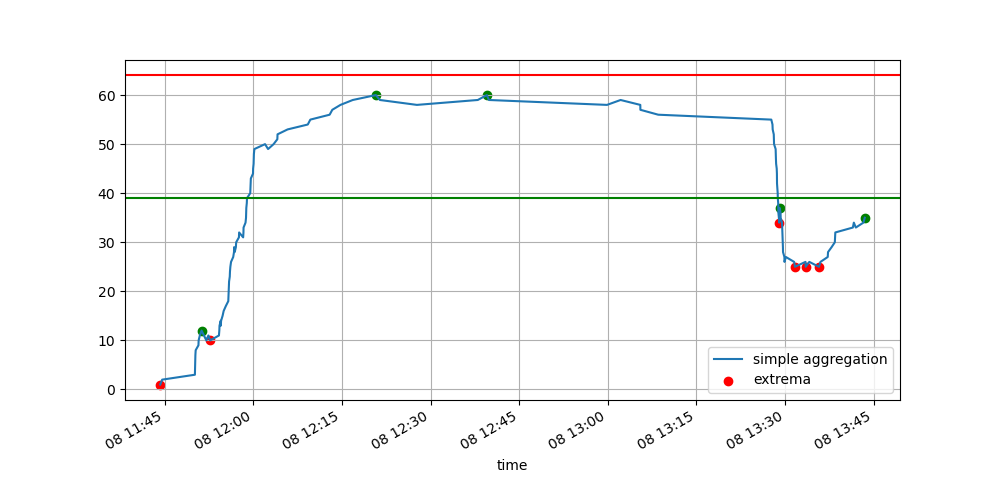
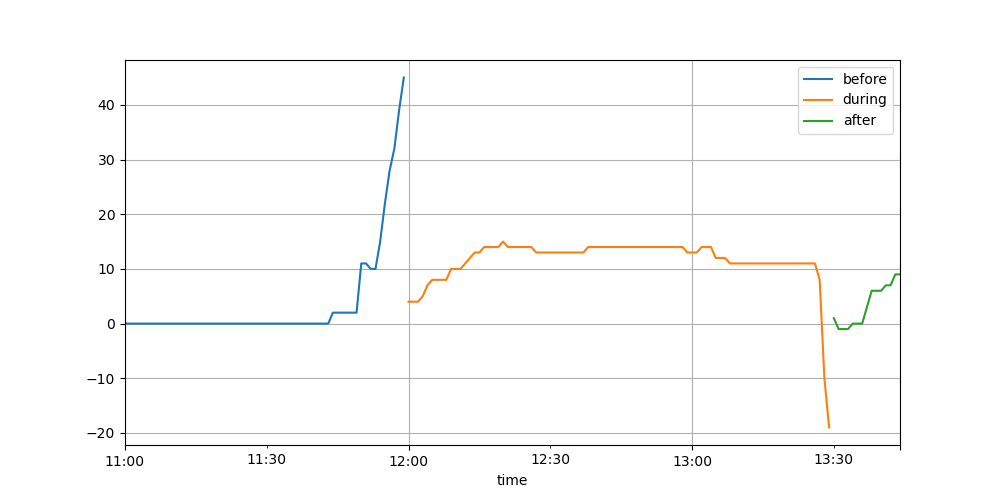
per minute

diff --git a/data_processor/analysis.py b/data_processor/analysis.py
@@ -38,6 +38,29 @@ class Analyzer():
         else:
             return df[mask]
     
+    
+    ######## Statistical Methods ########
+    def calc_mean_inside(self, dataframe):
+        df = dataframe.copy()
+        return df["people_inside"].mean()
+    
+    def calc_median_inside(self, dataframe):
+        df = dataframe.copy()
+        return df["people_inside"].median()
+    
+    def calc_mode_inside(self, dataframe):
+        df = dataframe.copy()
+        return int(df["people_inside"].mode())
+    
+    def calc_std_inside(self, dataframe):
+        df = dataframe.copy()
+        return df["people_inside"].std()
+    
+    def describe_inside(self, dataframe):
+        df = dataframe.copy()
+        return df["people_inside"].describe()
+    
+    
     ########  Data Analysis Methods ########
     # calc people entering and leaving
     def calc_entering_leaving(self, dataframe):
@@ -58,7 +81,31 @@ class Analyzer():
         # calc people in room a a given time
         df["people_inside"] = df["people_in"] - df["people_out"]
         return df
-
+    
+    def calc_inside_per_min(self, dataframe, n=1, start=None, end=None):
+        
+        df = dataframe.copy()
+        
+        # add a check if n is a divisor of the time span
+        
+        
+        df["people_in"] = df["event_type"].apply(lambda x: 1 if x == 1 else 0)
+        df["people_out"] = df["event_type"].apply(lambda x: 1 if x == 0 else 0)
+        
+        
+        idx = pd.date_range(start=start, end=end, freq=f'{n}min')
+        
+        df = df.set_index("time")\
+                .resample(f"{n}min")\
+                .sum().reindex(idx, fill_value=0).reset_index()
+        df.rename(columns={"index":"time"}, inplace=True)
+        
+        df["people_in"] = df["people_in"].cumsum()
+        df["people_out"] = df["people_out"].cumsum()
+        df["people_inside"] = df["people_in"] - df["people_out"]
+        
+        return df
+            
     def get_time(self, start_time, end_time, first, last):
                 
         if first:
@@ -84,6 +131,31 @@ class Analyzer():
                                             order=n)[0]]["people_inside"]
         return df
     
+    def calc_participants(self, dataframe, start_time, end_time, first, last):
+        
+        n = 1
+        # make a copy of the dataframe
+        df = dataframe.copy()
+        # get the new start and end time
+        df_during = self.filter_by_time(df, start_time, end_time)
+        df_course = self.calc_inside_per_min(df_during, n ,start_time, end_time-timedelta(minutes=1))
+        
+        start_time_new, end_time_new = self.get_time(start_time, end_time, first, last)
+        
+        df_before = self.filter_by_time(df, start_time_new, start_time)
+        df_before = self.calc_inside_per_min(df_before, n ,start_time_new, start_time-timedelta(minutes=1))
+        
+        df_after = self.filter_by_time(df, end_time, end_time_new)
+        df_after = self.calc_inside_per_min(df_after, n ,end_time, end_time_new-timedelta(minutes=1))
+        
+        #print(self.calc_inside_per_min(df_before))
+        print(df_before)
+        print(df_course)
+        print(df_after)
+        #print(self.calc_inside_per_min(df_after))
+        #start from the assumption that during the course only particpants are in the room
+        return df_before, df_course, df_after
+
     def calc_participants_simple(self, dataframe, start_time, end_time):
         df = dataframe.copy()
         
@@ -172,32 +244,6 @@ class Analyzer():
         
         return course_attendance, sanity_check
  
-
-    #def check_extrema(self, minima, maxima, mask_min, mask_max):
-    #    # process minima
-    #    if len(minima[mask_min]) > 1:
-    #        # check if in between minimum is a maximum
-    #        # if yes, split chunk into two
-    #        min_indices = minima[mask_min].index
-    #        max_indices = maxima[mask_max].index
-            
-    #        indices = []
-    #        for i, i_1 in zip(min_indices[:-1], min_indices[1:]):
-    #            max_between = max_indices[(max_indices > i) & (max_indices < i_1)]
-    #            if np.any(max_between):
-    #                indices.append(i)
-    #                indices.append(max_between.item())
-    #            else:
-    #                indices.append(i)
-                    
-    #        indices.append(i_1)
-    #        return indices 
-        
-    #    elif len(minima[mask_min]) == 1:
-    #        return [minima[mask_min].index.item()]
-    #    else:
-    #        return []
-
 # calculate people present at a course
     def calc_participants_extrema(self, dataframe, start_time, end_time, first, last):
         
@@ -384,3 +430,29 @@ class Analyzer():
         #print("Sanity-check:", count_in, count_out)
         
         return df_control, extrema, count_in, count_out
+
+
+    #def check_extrema(self, minima, maxima, mask_min, mask_max):
+    #    # process minima
+    #    if len(minima[mask_min]) > 1:
+    #        # check if in between minimum is a maximum
+    #        # if yes, split chunk into two
+    #        min_indices = minima[mask_min].index
+    #        max_indices = maxima[mask_max].index
+            
+    #        indices = []
+    #        for i, i_1 in zip(min_indices[:-1], min_indices[1:]):
+    #            max_between = max_indices[(max_indices > i) & (max_indices < i_1)]
+    #            if np.any(max_between):
+    #                indices.append(i)
+    #                indices.append(max_between.item())
+    #            else:
+    #                indices.append(i)
+                    
+    #        indices.append(i_1)
+    #        return indices 
+        
+    #    elif len(minima[mask_min]) == 1:
+    #        return [minima[mask_min].index.item()]
+    #    else:
+    #        return []

diff --git a/data_processor/main.py b/data_processor/main.py
@@ -25,21 +25,37 @@ year = 2024
 month = 4
 day = 8
 
-start_time = dt(year, month, day, 13, 45, 0)
-end_time = dt(year, month, day, 15, 15, 0)
-first, last = False, False
+start_time = dt(year, month, day, 12, 00, 0)
+end_time = dt(year, month, day, 13, 30, 0)
+first, last = True, False
 
 
 analyzer = Analyzer(cleaned_data)
 data_analysis = analyzer.filter_by_room(cleaned_data, room_id)
-#data_analysis = analyzer.filter_by_door(data_analysis, door_id)
+data_analysis = analyzer.filter_by_door(data_analysis, door_id)
+#data_analysis = analyzer.filter_by_time(data_analysis, start_time, end_time)
 
 #data_sophisticated, _ = analyzer.calc_patricipants_sophisticated(data_analysis, start_time, end_time, first, last)
 
 
-data_control, extrema, count_in, count_out = analyzer.calc_participants_extrema(data_analysis, 
-                                                  start_time, end_time,
-                                                  first, last)
+#data_control = analyzer.calc_inside_per_min(data_analysis, n=2)
+#print(data_control.head())
+#mode = analyzer.calc_mode_inside(data_control)
+#description = analyzer.describe_inside(data_control)
+#print(description)
+#print()
+#print()
+
+before, during, after = analyzer.calc_participants(data_analysis, 
+                                          start_time=start_time,
+                                          end_time=end_time,
+                                          first=first,
+                                          last=last)
+#print(data_control)
+
+#data_control, extrema, count_in, count_out = analyzer.calc_participants_extrema(data_analysis, 
+#                                                  start_time, end_time,
+#                                                  first, last)
 #print(data_analysis)
 
 #########  Data Visualization #########
@@ -50,11 +66,15 @@ visard = Visualizer()
 #                legend,
 #                "time", "people_inside", f"{start_time}", extrema)
 
-data_list = [data_control] 
-legend = ["simple aggregation"] + ["extrema"]
+#[(description["mean"],"r"), 
+#                                                                             (description["50%"],"b"), 
+#                                                                             (mode, "g")]
+
+data_list = [ before, during, after] 
+legend = ["before", "during", "after"]
 visard.plot_line( data_list, 
-                 legend,
-                 "time", "people_inside", f"{start_time}", extrema, count_in, count_out)
+                 legend ,
+                 "time", "people_inside", f"{start_time}", horizontal_lines=[])
 
 
 # TODO:

diff --git a/data_processor/visulization.py b/data_processor/visulization.py
@@ -5,18 +5,21 @@ class Visualizer():
         # maybe some general settings like style and window size
         pass
         
-    def plot_line(self,dataframes:list, legend:list, x_column, y_column, save_path, extrema, count_in, count_out):
+    def plot_line(self,dataframes:list, legend:list, x_column, y_column, save_path, extrema=None, horizontal_lines=[]):
         
         fig, ax = plt.subplots(figsize=(10, 5))
         
         for dataframe in dataframes:
             dataframe.plot(x=x_column, y=y_column, kind="line", ax=ax)
-            
-        plt.scatter(extrema.time, extrema["min"], c="r")
-        plt.scatter(extrema.time, extrema["max"], c="g")
+    
+        if extrema is not None:
+            plt.scatter(extrema.time, extrema["min"], c="r")
+            plt.scatter(extrema.time, extrema["max"], c="g")
         
-        plt.axhline(y = count_in, color = 'r', linestyle = '-') 
-        plt.axhline(y = count_out, color = 'g', linestyle = '-') 
+        if len(horizontal_lines) > 0:
+            for x, c in horizontal_lines:
+                plt.axhline(y = x, c=c, linestyle = '-')
+                
 
         plt.legend(legend)
         plt.grid()
